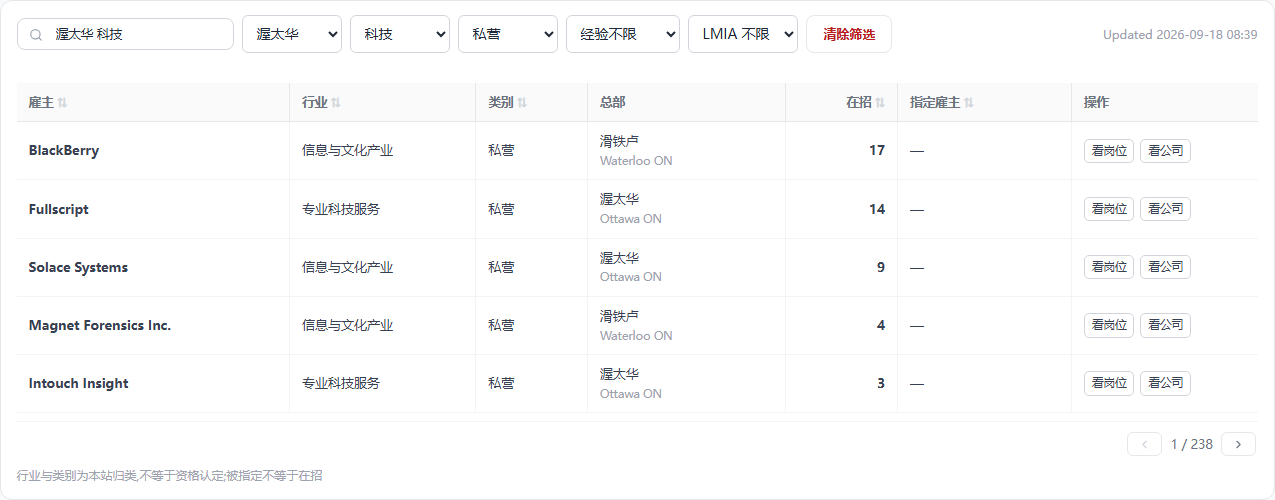
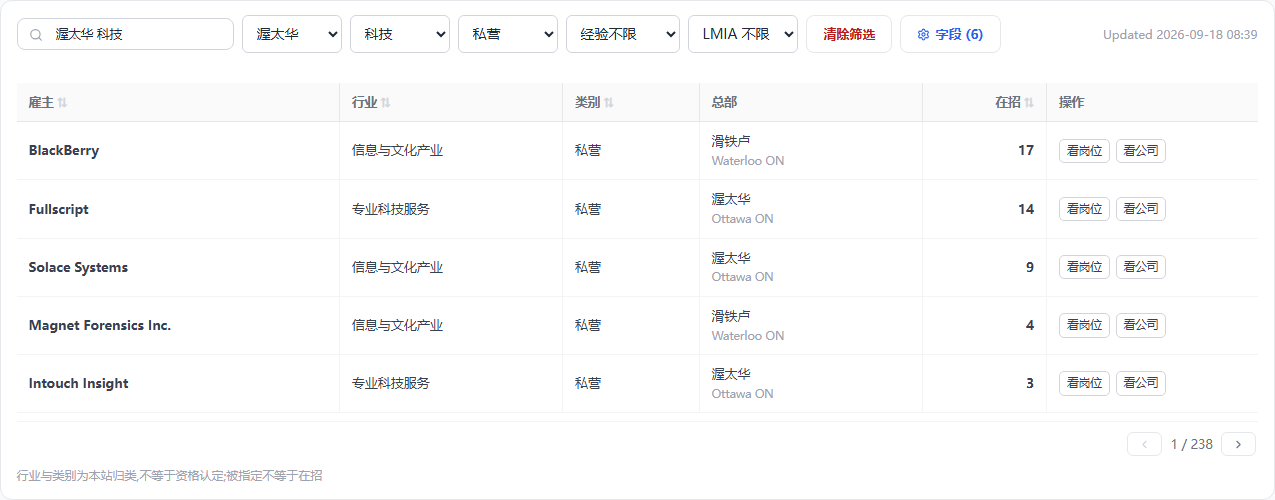
docs(design): 雇主板加字段钮自选列 + 点雇主名开公司弹框(Frank「应该加一个字段按钮」「雇主弹框也加上」)[skip render]

diff --git a/docs/design/雇主分类与搜索-20260918.md b/docs/design/雇主分类与搜索-20260918.md
@@ -56,7 +56,7 @@
 
 ### 筛选行(照职位板形态)
 
-`搜索 / 城市 / 行业 / 类别 / 经验 / LMIA / 清除筛选 / Updated`,**整行全是下拉,不用胶囊开关**(2026-09-18 Frank「这种也设计成下拉框?」):经验 = 经验不限 / 无经验可投;LMIA = LMIA 不限 / 办过 LMIA / 连续办 LMIA(多出「连续办」一档,直接筛到两年都办的那批)。**不出已选胶囊行**(2026-09-18 Frank「这种胶囊的也去掉吧」):搜索认出的维度直接落进对应下拉框显示,改下拉即改筛选。省下拉退役,城市下拉带省(值 = 城市 + 省码,显示照 CityNameCell)。≤640 手机:搜索 + 城市 + 行业露出,类别、经验、LMIA 三个下拉折进「更多筛选」(职位板 foldfilters 同形)。
+`搜索 / 城市 / 行业 / 类别 / 经验 / LMIA / 清除筛选 / 字段 / Updated`,**整行全是下拉,不用胶囊开关**(2026-09-18 Frank「这种也设计成下拉框?」):经验 = 经验不限 / 无经验可投;LMIA = LMIA 不限 / 办过 LMIA / 连续办 LMIA(多出「连续办」一档,直接筛到两年都办的那批)。**不出已选胶囊行**(2026-09-18 Frank「这种胶囊的也去掉吧」):搜索认出的维度直接落进对应下拉框显示,改下拉即改筛选。省下拉退役,城市下拉带省(值 = 城市 + 省码,显示照 CityNameCell)。≤640 手机:搜索 + 城市 + 行业露出,类别、经验、LMIA 三个下拉折进「更多筛选」(职位板 foldfilters 同形)。
 
 ### 搜索:跨列多词(照职位板搜索机器)
 
@@ -66,14 +66,19 @@
 - 后端:`employer_pool.name` 与别名列建 pg_trgm GIN(DDL 里 09-13 留的「批二可换 trgm」);城市 / 行业 / 类别三列各建 btree,新筛选参数上线必查索引(08-08 实撞)。
 - 防抖 300ms 保留(雇主板现状),职位板每键即搜不改。
 
-### 列(桌面默认七列,LMIA 下拉选了值多一列;手机卡片)
+### 列:默认六列 + 「字段」钮自选(照职位板)
 
-`雇主 / 行业 / 类别 / 总部 / 在招 / 指定雇主 / 操作`,LMIA 下拉不是「不限」时在「指定雇主」后多出 `LMIA` 一列(2026-09-18 Frank「招聘地点去掉吧」:原九列的「招聘地点」撤)
+默认 `雇主 / 行业 / 类别 / 总部 / 在招 / 操作`。筛选行尾加「字段 (n)」钮(2026-09-18 Frank「应该加一个字段按钮,可以自定义字段,类似于 job 页面」),点开面板勾选:雇主(固定)、行业、类别、总部、省、在招、指定雇主、LMIA、官网、操作(固定);顶上「主要 / 全选 / 反选」三钮,选择落 cookie —— 形与行为全照职位板字段面板。
+
+- **指定雇主、LMIA 两列默认不勾**:在招雇主 35,832 家里指定的只有 455 家(1.3%,渥太华 426 家里 1 家),近两年办过 LMIA 的 3,665 家、两年都办的 996 家(2.8%),默认显着就是两整列「—」。
+- **筛了自动出列**:LMIA 下拉选了「办过 / 连续办」、或直达链接带 `program=AIP` 这类指定参数进来时,对应字段自动勾上(契约不断),用户可再手动关。
+- **实现边界**:职位板的字段面板住 jobs 桶(和冻结列、列宽机器长在一起),雇主板走通用 table 桶。按「通用形态单一出口」不许 fork —— 字段面板做进通用 table 桶(列声明加 `optional` / `fixed`,面板件 + cookie 键由桶出),雇主板先用;职位板换装过来另立搬家批,本批不动它。
+- 手机卡片流没有列,不出字段钮(2026-09-18 Frank「招聘地点去掉吧」:原九列的「招聘地点」撤)
 
 - 行业:只显部门中文名,不带代码灰注;推断的加「推断」灰注。
 - 类别:纯文字,不用胶囊(2026-09-18 Frank「这个不需要显示胶囊」:整列同一个值时一排胶囊是噪音);手机卡片上放在总部那一行右侧,同为纯文字。
 - 总部:CityNameCell 双行形(中文主文案 + 英文灰注);提不到总部时显主场城市。
-- **LMIA 列默认不显,LMIA 下拉选了「办过」或「连续办」才出列**(2026-09-18 Frank 拍:在招雇主 35,770 家里近两年办过的 3,665 家、两年都办的 996 家,只占 2.8%,默认显着就是一整列「—」;手机卡片上的 LMIA 胶囊同此)。**LMIA 一格**(列名就叫「LMIA」,2026-09-18 Frank「就叫 lmia 不行吗」:限定词是数据口径不是用户文案):数 = 近两年高薪流 + 全球人才流获批份数(2025 全年 39,852 个职位、18,709 家雇主,主体是 TEER 2 / 3 的卡车司机、木工、餐厅经理、焊工、机修;软件两职业合计 3.4%),「连续办」灰注 = 2024、2025 两年都有记录;0 显「—」。农业 / 低薪流不上板,只在公司页担保记录卡按流拆开。
+- **LMIA 一格**(列名就叫「LMIA」,2026-09-18 Frank「就叫 lmia 不行吗」:限定词是数据口径不是用户文案):数 = 近两年高薪流 + 全球人才流获批份数(2025 全年 39,852 个职位、18,709 家雇主,主体是 TEER 2 / 3 的卡车司机、木工、餐厅经理、焊工、机修;软件两职业合计 3.4%),「连续办」灰注 = 2024、2025 两年都有记录;0 显「—」。农业 / 低薪流不上板,只在公司页担保记录卡按流拆开。
 - 排序键:默认在招岗数降序;行业 / 类别 / 指定 / LMIA 可点排序;裸 LMIA 总量永不入排序(08-29)。
 - 口径注(保留类文案):「行业与类别为本站归类,不等于资格认定;被指定不等于在招」。
 
@@ -82,8 +87,16 @@
 | 端 | 现状 | 建议 |
 |---|---|---|
 | 桌面 1440 | ![](img/雇主板分类-桌面-现状-20260918.png) | ![](img/雇主板分类-桌面-建议-20260918.png) |
-| 桌面,LMIA 选「办过 LMIA」 | | ![](img/雇主板分类-桌面-建议开LMIA-20260918.png) |
+| 桌面,字段面板打开并勾上指定雇主与 LMIA | | ![](img/雇主板分类-桌面-建议字段面板-20260918.png) |
 | 手机 375 | ![](img/雇主板分类-手机-现状-20260918.png) | ![](img/雇主板分类-手机-建议-20260918.png) |
+
+### 点雇主名开公司弹框(照职位板)
+
+2026-09-18 Frank「雇主弹框也加上,类似于 job 页面」:雇主板上点雇主名,开的是职位板那一个公司弹框(advisor 桶 GROUP_COMPANY + companies 桶 CompanyPanel,同一件不另做),不离开板;操作列「看公司」仍是完整页链接,「看岗位」不变。
+
+- 现在的 CompanyPanel 按岗位号取公司(`/api/jobs/company`);雇主板没有岗位号,要补一条按 slug 取的路(与 `/companies/[slug]` 页面同一份数据,免额度)。没有公司页的池行(无 slug)雇主名保持纯文本,不开框。
+- 弹框里的中文对照、在招职位、相似雇主全是现成行为(09-17 终态:开关默认关、后台预翻)。
+- 手机卡片点标题同样开框(职位板手机卡同形)。
 
 ## 两处 top 段(不做榜页)
 
@@ -133,7 +146,7 @@
 | 2 类目与映射 | statcan 域 NAICS 表(20 / 99 三语);Jobillico 映射表补完 27 空格;行业别名表 | 条数与官方一致;映射表 Frank 抽查 |
 | 3 行业试点 | `etl/classify` 公司段:标签层 + 模型层 + NOC 兜底;抽 100 家给 Frank 核 | 准确率 / 弃权率报数 |
 | 4 池表接线 | companies / employer_pool 加列;总部提取步;LMIA 连续办;seed 六步 | 在招雇主行业填充率、总部填充率报数 |
-| 5 雇主板换版 | 筛选行、跨列搜索、七列(开关态八列)、手机折叠;效果图已过 | 搜索金标 20 句全过;四道闸;生产换版 |
+| 5 雇主板换版 | 筛选行全下拉、跨列搜索、默认六列 + 通用 table 桶字段面板、点雇主名开公司弹框(补按 slug 取数)、手机折叠;效果图已过 | 搜索金标 20 句全过;四道闸;生产换版 |
 | 6 两处 top 段 | 公司页「同城同行业在招」;城市详情页并入城市段批三 | 效果图已过(公司页);城市页另立 |
 
 ## 已拍 / 待拍
@@ -153,6 +166,8 @@
 12. LMIA 列默认不显,筛了 LMIA 才出列(Frank「默认不显,开了开关才出列」)。
 13. 筛选行两枚胶囊开关改下拉:经验两档、LMIA 三档(Frank「这种也设计成下拉框?」)。
 14. 类别格纯文字不用胶囊(Frank「这个不需要显示胶囊」)。
+15. 加「字段」钮自选列,照职位板;指定雇主、LMIA 默认不勾,筛了自动勾(Frank「应该加一个字段按钮」)。第 12 条并入本条。
+16. 点雇主名开公司弹框,与职位板同一件(Frank「雇主弹框也加上」)。
 
 **待拍**:
 - 行业别名表(「科技」= 51 + 54 这类归并)由我填、Frank 抽查 —— 同 Jobillico 映射表做法。
@@ -160,4 +175,4 @@
 
 ## 状态
 
-- 2026-09-18:设计稿 + 五张效果图。同日 Frank「招聘地点去掉吧」「这种胶囊的也去掉吧」「灰注去掉,只留中文名」:列撤、已选行撤、代码灰注撤、LMIA 去限定词、LMIA 列改筛了才出、两枚胶囊开关改下拉、类别格去胶囊、效果图重拍(桌面多一张 LMIA 态)。
+- 2026-09-18:设计稿 + 五张效果图。同日 Frank「招聘地点去掉吧」「这种胶囊的也去掉吧」「灰注去掉,只留中文名」:列撤、已选行撤、代码灰注撤、LMIA 去限定词、LMIA 列改筛了才出、两枚胶囊开关改下拉、类别格去胶囊、加字段钮、点名开弹框、效果图重拍(桌面多一张 LMIA 态)。
